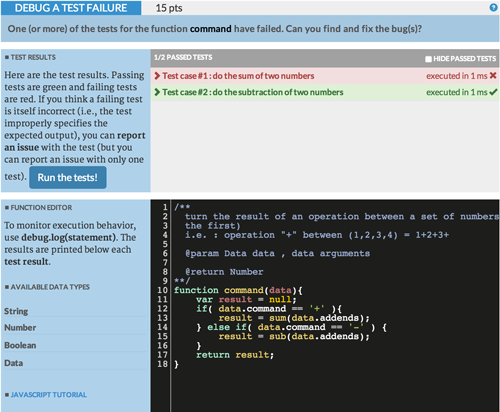
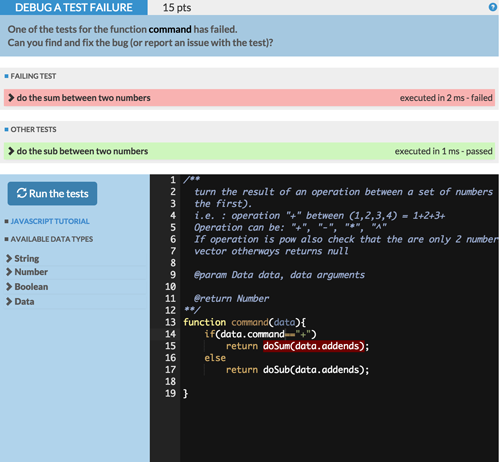
some tutorials fixed, fixed 'unexpected token 0' in json validator

diff --git a/CrowdCoding/war/html/templates/tutorials/WriteFunction.html b/CrowdCoding/war/html/templates/tutorials/WriteFunction.html
@@ -24,20 +24,35 @@
 	<div class="text">
 		<img src="/img/tutorial/writefunction/code.png" />
 		<p style="width:550px">
-			In CrowdCode, you edit code with a local view of the codebase, seeing only the current function on which you are working.  When you call another function, you have to add a sketch of the called function header with an empty body at the bottom of the code editor window (eventually providing an one-line description of what the function is supposed to do). 
+			In CrowdCode, you edit code with a local view of the codebase, seeing only the current function on which you are working.  <strong>When you need to call another function</strong>, you have to add a sketch of the called function header with an empty body at the bottom of the code editor window (eventually providing an one-line description of what the function is supposed to do). 
 		</p>
-		<p style="width:550px">
-			When implementing a function, you may discover that a function description needs revision, that an additional parameter is required, or even that the function itself is poorly named. In this case, you may edit the header of the function; the crowd will then update any callers of the function to match its new specification.<br />
-			<b>Note: </b> 
-			you are not allowed to change the description of the API functions (the functions requested by the client).
-		</p>
-
 	</div>
 </step>
 <step>
 	<div class="text">
 		<p style="width:300px">
-			<strong>Remember</strong>: Using <strong>psuedocode</strong> and <strong>function stubs</strong> provides an opportunity for the crowd to contribute. For a function with large and complex behavior, sketching some of the behavior provides opportunities for the crowd to consider how it best be done. Rather than build a single monolithic function, function stubs provides an opportunity for code to be decomposed into cohesive functions that can be reused. And - most importantly - function stubs provides an opportunity for many to work on each requested function in parallel.
+			<strong>Remember</strong>: Using <strong>pseudocode</strong> and <strong>function stubs</strong> provides an opportunity for the crowd to contribute. Small contributions are encouraged!
+			<!--For a function with large and complex behavior, sketching some of the behavior provides opportunities for the crowd to consider how it best be done. Rather than build a single monolithic function, function stubs provides an opportunity for code to be decomposed into cohesive functions that can be reused. And - most importantly - function stubs provides an opportunity for many to work on each requested function in parallel.-->
+		</p>
+	</div>
+</step>
+<step>
+	<div class="text">
+		<p style="width:500px">
+			In editing a function code, you are allowed to add at most 10 new <a href="http://en.wikipedia.org/wiki/Statement_%28computer_science%29" target="_blank" >statements</a>.
+		</p>	
+		<img src="/img/tutorial/writefunction/statements.png" />
+		<p style="width:500px">
+			The bar on the bottom of the code editor window, represents the remaining number of statements you can add.<br />
+		</p>
+	</div>
+</step>
+<step>
+	<div class="text">
+		<p style="width:550px">
+			If you think that the function signature have to be changed (i.e. an additional parameter is required, or the function itself is poorly written) you may edit the header of the function; the crowd will then update any callers of the function to match its new specification.<br />
+			<b>Note: </b> 
+			you are not allowed to change the description of the core API functions (the functions requested by the client).
 		</p>
 	</div>
 </step>
@@ -52,7 +67,7 @@
 <step>
 	<div class="text">
 		<p style="width:500px">
-			In editing the function, you may discover that the function is impossible or inadvisable to implement (i.e. a function that need to use global variables). If you feel this to be the case, you should report the issue:
+			If you discover that the function is impossible or inadvisable to implement (i.e. a function that need to use global variables), you should report the issue:
 		</p>
 		<img src="/img/tutorial/writefunction/report.png" />
 	</div>

diff --git a/CrowdCoding/war/html/templates/tutorials/main.html b/CrowdCoding/war/html/templates/tutorials/main.html
@@ -6,39 +6,47 @@
 	</div>
 </step>
 
-<step highlight="task" placement="left" style="width:100px;">
+<step highlight="task" placement="left" style="width:150px;">
 	<div class="title">Microtask</div>
 	<div class="text">
-		Here’s the work. Can you do it?
+		Here’s the workspace. <br />
+		Can you do it?
 
 	</div>
 </step>
 
-<step highlight="submitBtn" placement="top-center" style="width:100px;" >
+<step highlight="remainingTimeBar" placement="top" style="width:300px;">
+	<div class="title">Hurry up!</div>
+	<div class="text">
+		For each microtask, you have <strong>10 minutes</strong> to submit the work
+		or the microtask will be automatically skipped. <br /> 
+		The bar on the bottom represents the remaining time for submitting the current microtask.<br />
+	</div>
+</step>
+
+<step highlight="submitBtn" placement="top-center" style="width:150px;" >
 	<div class="title">Submit</div>
 	<div class="text">
 		All done? Submit your work for review.
 	</div>
 </step>
 
-<step highlight="skipBtn" placement="top-center" style="width:150px;" >
+<step highlight="skipBtn" placement="top-center" style="width:200px;" >
 	<div class="title">Skip</div>
 	<div class="text">
 		Not the right microtask for you? Skip it. <br />
-		But be careful - skipping makes it more valuable for others and <strong>you can't go back</strong>!
-
+		But be careful - skipping makes it more valuable for others and <strong>you can't go back!</strong>
 	</div>
 </step>
-
-
+<!--
 <step highlight="shortcutsBtn" placement="top-center" style="width:100px;">
 	<div class="title">Shortcuts</div>
 	<div class="text">
 		Wanna be a power coder? Here’s your keyboard shortcuts.
 	</div>
-</step>
+</step>-->
 
-<step highlight="chatPanel" placement="left" style="width:100px;" 
+<step highlight="chatPanel" placement="left" style="width:150px;" 
 	  on-show="$emit('toggleChat');" on-hide="$emit('toggleChat');">
 	<div class="title">Chat</div>
 	<div class="text">
@@ -46,14 +54,14 @@
 	</div>
 </step>
 
-<step highlight="activityPanel" placement="right-center" style="width:100px;">
+<step highlight="activityPanel" placement="right-center" style="width:200px;">
 	<div class="title">Your Activity</div>
 	<div class="text">
 		See what you’ve done, see how the crowd rated it.
 	</div>
 </step>
 
-<step highlight="leaderboardPanel" placement="right-center" style="width:100px;">
+<step highlight="leaderboardPanel" placement="right-center" style="width:200px;">
 	<div class="title">Leaderboard</div>
 	<div class="text">
 		Don’t worry. You’re still cool, even if someone has 400 points more than you.

diff --git a/CrowdCoding/war/html/templates/ui/statements_progress_bar.html b/CrowdCoding/war/html/templates/ui/statements_progress_bar.html
@@ -1,9 +1,19 @@
 <div ng-init="show=false"  class="section-statements">
-	<div ng-show="show" style="width: {{((statements / max)) * 100| number :0}}%;
-	text-align: right;"><b class="label-reminder">{{max-statements}}</b>
+	<div ng-show="show" style="padding-left: {{ (statements / max) * 100 | number: 0 }}%;">
+		<b class="label-reminder">{{max-statements}} {{ (max-statements) > 2 ? 'statements left' : ''}}</b>
 	</div>
     <div class="progress progress-bar-reminder">
-        <div ng-mouseenter="show=true" data-ng-mouseleave="show=false" class="pull-right progress-bar" ng-class="{'progress-bar-success': max - statements >= max * 0.5 ,'progress-bar-warning': max - statements < max * 0.5 && max - statements > max * 0.25, 'progress-bar-danger': max - statements < max * 0.25}" role="progressbar" style="width:{{(1-statements / max) * 100| number :0}}%">
+        <div 
+        	ng-mouseenter="show=true" 
+        	data-ng-mouseleave="show=false" 
+        	class="pull-right progress-bar" 
+        	ng-class="{
+        		'progress-bar-success' : max - statements >= max * 0.5 ,
+        		'progress-bar-warning' : max - statements < max * 0.5 && max - statements > max * 0.25, 
+        		'progress-bar-danger'  : max - statements < max * 0.25
+        	}" 
+        	role="progressbar" 
+        	style="width:{{ ( 1-statements / max ) * 100 | number :0 }}%">
 
         </div>
 

diff --git a/CrowdCoding/war/html/templates/ui/reminder.html b/CrowdCoding/war/html/templates/ui/reminder.html
@@ -1,8 +1,8 @@
-<div ng-init="show=false"  class="section-reminder"  ng-if = "skipMicrotaskIn">
+<div  ng-init="show=false"  class="section-reminder"  ng-if = "skipMicrotaskIn">
 	<div ng-show="show" style="width: {{(1-(skipMicrotaskIn / microtaskTimeout)) * 100| number :1}}%;
 	text-align: right;"><b class="label-reminder">{{skipMicrotaskIn | date:'mm:ss'}}</b>
 	</div>
-    <div class="progress progress-bar-reminder">
+    <div id="remainingTimeBar" class="progress progress-bar-reminder">
         <div ng-mouseenter="show=true" data-ng-mouseleave="show=false" class="pull-right progress-bar" ng-class="{'progress-bar-success':skipMicrotaskIn > microtaskFirstWarning,'progress-bar-warning':skipMicrotaskIn > microtaskFirstWarning / 2 && skipMicrotaskIn < microtaskFirstWarning,'progress-bar-danger':skipMicrotaskIn < microtaskFirstWarning / 2}" role="progressbar" style="width:{{(skipMicrotaskIn / microtaskTimeout) * 100| number :1}}%">
 
         </div>

diff --git a/CrowdCoding/war/html/templates/microtasks/debug_test_failure.html b/CrowdCoding/war/html/templates/microtasks/debug_test_failure.html
@@ -108,10 +108,10 @@
     <div class="section-cols " ng-show=" tabs.active == 2 ">
         <div class="container-flex-row">
             <div class="section section-help bg-color-alpha " style="width:30%">
-                <a ng-click="runTests()" class="btn btn-primary"  ng-disabled="microtaskForm.functionForm.$invalid">
+                <a ng-click="runTests()" class="btn btn-primary" style="margin:10px" ng-disabled="microtaskForm.functionForm.$invalid">
                     <span class="glyphicon glyphicon-refresh"></span> 
-                    <span ng-if="!data.running">Run</span> 
-                    <span ng-if="data.running">tests running</span>
+                    <span ng-if="!data.running">Run the tests</span> 
+                    <span ng-if="data.running">Tests running</span>
                 </a>
                 
                 <div class="section-title" > <div class="dot"></div> <javascript-helper ></javascript-helper></div>

diff --git a/CrowdCoding/war/js/JSONValidator.js b/CrowdCoding/war/js/JSONValidator.js
@@ -47,11 +47,13 @@ function JSONValidator() {
 			}
 			catch (e)
 			{
-				errors.push(e.message);
+				if( e.message != 'Unexpected token o' )
+					errors.push(e.message);
+
 				// We can get an error here if the 1) field names are not surrounded by double quotes, 2) there's a trailing ,
 				// Also need to check that strings are surrounded by double quotes, not single quotes....
 				// errors.push("1) property names are surrounded by double quotes");
-				// errors.push("2) strings are surounded by double quotes not by single quotes" );
+				// errors.push("2) strings are surrounded by double quotes not by single quotes" );
 				// errors.push("3) there are no trailing commas in the list of fields.");
 			}
 		}

diff --git a/CrowdCoding/war/html/templates/microtasks/review_WriteCall.html b/CrowdCoding/war/html/templates/microtasks/review_WriteCall.html
@@ -5,8 +5,8 @@
 	<div class="section-content job-description" >
 
 		The crowd created a description for the function
-		 <strong>{{calleeFunction.getName()}}</strong>, called by the function below.
-		 As a result, a worker was asked to check if the call(s) were correct, and revise them if necessary, or decide that an alternative implementation was better. Can you review this work?
+		 <strong>{{calleeFunction.getName()}}</strong>, called by the function below.<br />
+		 As a result, a worker was asked to check if the call(s) were correct, and revise them if necessary, or decide that an alternative implementation was better. <br />Can you review this work?
 	</div>
 </div>
 

diff --git a/CrowdCoding/war/js/directives/ace-editor-directives.js b/CrowdCoding/war/js/directives/ace-editor-directives.js
@@ -318,10 +318,14 @@ angular
             ngModel.$render = function (){
 
 
-                if( ngModel.$viewValue == "") 
+                if( ngModel.$viewValue === "") 
                     scope.stringValue = "";
                 else {
-                    scope.stringValue = angular.toJson(angular.fromJson (ngModel.$viewValue),true);
+                    try{
+                        scope.stringValue = angular.toJson(angular.fromJson (ngModel.$viewValue),true);
+                    } catch(e){
+                        scope.stringValue = ngModel.$viewValue;
+                    }
                 }
 
 

diff --git a/CrowdCoding/war/js/directives/reminder.js b/CrowdCoding/war/js/directives/reminder.js
@@ -5,8 +5,8 @@ angular
 
     var microtaskInterval;
 
-    var microtaskTimeout      = 100* 10 * 60 * 1000;     //in second
-    var microtaskFirstWarning = 100* 4  * 60 * 1000;      //in second
+    var microtaskTimeout      = 1* 10 * 60 * 1000;     //in second
+    var microtaskFirstWarning = 1* 4  * 60 * 1000;      //in second
     var timeInterval=500;//interval time in milliseconds
 
     var fetchTime = 0;

diff --git a/CrowdCoding/war/html/templates/tutorials/DebugTestFailure.html b/CrowdCoding/war/html/templates/tutorials/DebugTestFailure.html
@@ -3,7 +3,7 @@
 	<div class="text">
 		<img src="/img/tutorial/debugtestfailure/microtask.png" />
 		<p style="width:500px">
-			In Debug a Test Failure, your goal is to find and correct any bug(s) that caused a function to fail its unit tests.
+			In Debug a Test Failure, your goal is to find and correct any bug(s) that caused a function to fail one of its unit tests.
 		</p>
 	</div>
 </step>
